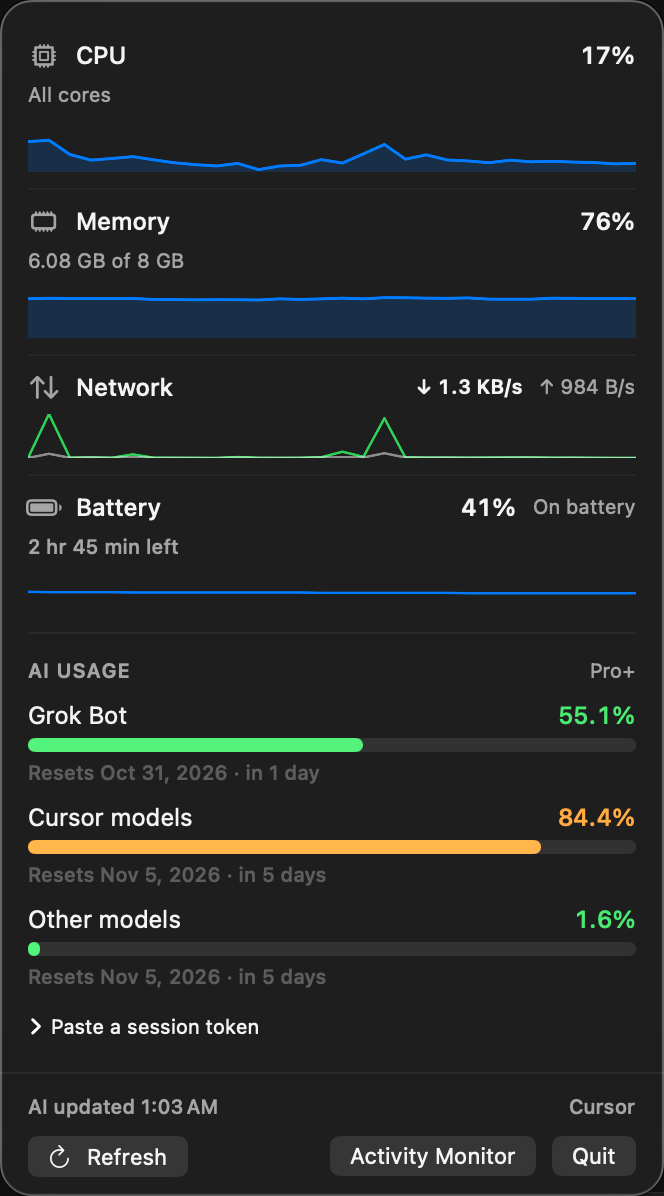
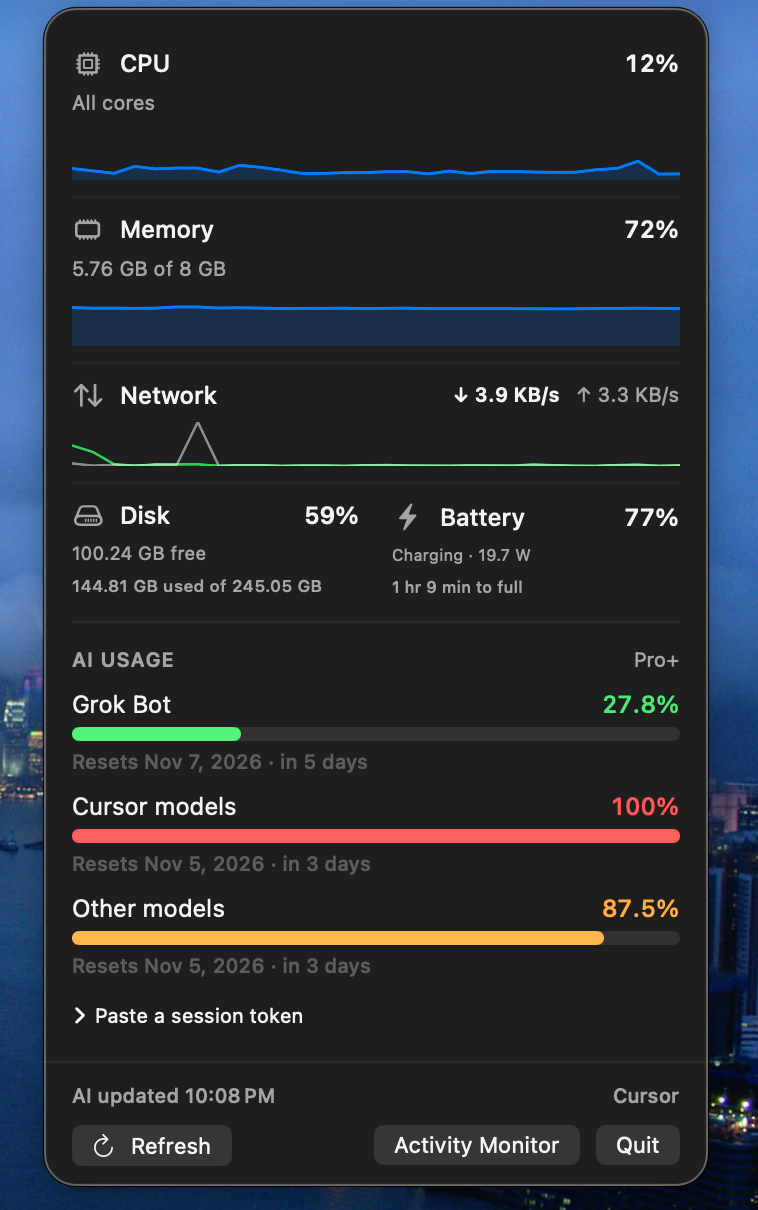
Skip unused battery registry reads and hold charge watts to the 30s cadence (#16)
* Skip unused battery registry reads and hold watts to the 30s cadence.

When the chosen charging source already has a positive IOPS voltage and a finite current, skip AppleSmartBattery. Inside the sample window, keep the last watts unless percent, source, or minutes change. Replace the panel screenshot with the approved popover.

* Name battery in the panel caption and parse the chosen source once.

The screenshot line keeps disk free and used of total and charging watts, and lists battery again. The sampler resolves one source, gates the registry on it, and parses that source.

---------

Changed region(s): [[0.0, 0.0, 1.0, 1.0]]

diff --git a/MenuBarUsageTests/UsageTests.swift b/MenuBarUsageTests/UsageTests.swift
@@ -951,6 +951,172 @@ final class MachineTelemetryTests: XCTestCase {
         return description
     }
 
+    func testIOPSChargeInputsArePositiveVoltageAndFiniteCurrent() {
+        XCTAssertTrue(BatteryStatusParser.iopsCanSupplyChargeInputs(
+            charging(current: 4_000, extra: ["Voltage": 11_000])
+        ))
+        XCTAssertTrue(BatteryStatusParser.iopsCanSupplyChargeInputs(
+            charging(current: 0, extra: ["Voltage": 11_000])
+        ))
+        XCTAssertTrue(BatteryStatusParser.iopsCanSupplyChargeInputs(
+            charging(current: -50, extra: ["Voltage": 11_000])
+        ))
+        XCTAssertFalse(BatteryStatusParser.iopsCanSupplyChargeInputs(charging(current: 4_000)))
+        XCTAssertFalse(BatteryStatusParser.iopsCanSupplyChargeInputs(
+            charging(current: 4_000, extra: ["Voltage": 0])
+        ))
+        XCTAssertFalse(BatteryStatusParser.iopsCanSupplyChargeInputs(
+            charging(current: 4_000, extra: ["Voltage": -1])
+        ))
+        XCTAssertFalse(BatteryStatusParser.iopsCanSupplyChargeInputs(
+            charging(extra: ["Voltage": 11_000])
+        ))
+        XCTAssertFalse(BatteryStatusParser.iopsCanSupplyChargeInputs(
+            charging(current: Double.nan, extra: ["Voltage": 11_000])
+        ))
+        XCTAssertFalse(BatteryStatusParser.iopsCanSupplyChargeInputs(
+            charging(current: Double.infinity, extra: ["Voltage": 11_000])
+        ))
+    }
+
+    func testCompleteIOPSChargeInputsIgnoreRegistry() {
+        let cases: [[String: Any]] = [
+            charging(current: 4_000, extra: ["Voltage": 11_000]),
+            charging(current: 0, extra: ["Voltage": 12_000]),
+            charging(current: -5_338, extra: ["Voltage": 12_000])
+        ]
+        let registry = ChargePowerReading(
+            voltageMillivolts: 5_000,
+            currentMilliamps: 9_000,
+            adapterWatts: 96
+        )
+        for description in cases {
+            XCTAssertTrue(BatteryStatusParser.iopsCanSupplyChargeInputs(description))
+            XCTAssertEqual(
+                BatteryStatusParser.parse(description, power: registry),
+                BatteryStatusParser.parse(description, power: .empty)
+            )
+        }
+    }
+
+    func testSamplerSkipsRegistryWhenIOPSCanSupplyChargeInputs() {
+        var reads = 0
+        let status = BatterySampler.status(from: [
+            charging(current: 4_000, extra: ["Voltage": 11_000])
+        ], registry: {
+            reads += 1
+            return ChargePowerReading(voltageMillivolts: 5_000, currentMilliamps: 9_000, adapterWatts: 96)
+        })
+        XCTAssertEqual(reads, 0)
+        XCTAssertEqual(status?.chargeWatts, 44)
+        XCTAssertEqual(status?.sourceCaption, "Charging · 44 W")
+    }
+
+    func testSamplerSkipsRegistryWhenCurrentIsNotPositive() {
+        var reads = 0
+        let status = BatterySampler.status(from: [
+            charging(current: 0, extra: ["Voltage": 12_000])
+        ], registry: {
+            reads += 1
+            return ChargePowerReading(voltageMillivolts: 12_000, currentMilliamps: 4_000, adapterWatts: 96)
+        })
+        XCTAssertEqual(reads, 0)
+        XCTAssertNil(status?.chargeWatts)
+        XCTAssertEqual(status?.sourceCaption, "Charging")
+
+        let negative = BatterySampler.status(from: [
+            charging(current: -5_338, extra: ["Voltage": 12_000])
+        ], registry: {
+            reads += 1
+            return ChargePowerReading(adapterWatts: 96)
+        })
+        XCTAssertEqual(reads, 0)
+        XCTAssertNil(negative?.chargeWatts)
+    }
+
+    func testSamplerReadsRegistryWhenIOPSCannotFormChargeInputs() {
+        var missingVoltageReads = 0
+        let fromRegistryVoltage = BatterySampler.status(from: [
+            charging(current: 2_000)
+        ], registry: {
+            missingVoltageReads += 1
+            return ChargePowerReading(voltageMillivolts: 12_600, adapterWatts: 45)
+        })
+        XCTAssertEqual(missingVoltageReads, 1)
+        XCTAssertEqual(fromRegistryVoltage?.sourceCaption, "Charging · 25.2 W")
+
+        var zeroVoltageReads = 0
+        let zeroVoltage = BatterySampler.status(from: [
+            charging(current: 2_000, extra: ["Voltage": 0])
+        ], registry: {
+            zeroVoltageReads += 1
+            return ChargePowerReading(voltageMillivolts: 11_000, adapterWatts: 96)
+        })
+        XCTAssertEqual(zeroVoltageReads, 1)
+        XCTAssertEqual(zeroVoltage?.chargeWatts, 22)
+
+        var missingCurrentReads = 0
+        let adapterOnly = BatterySampler.status(from: [
+            charging(extra: ["Voltage": 12_000])
+        ], registry: {
+            missingCurrentReads += 1
+            return ChargePowerReading(adapterWatts: 45)
+        })
+        XCTAssertEqual(missingCurrentReads, 1)
+        XCTAssertEqual(adapterOnly?.chargeWatts, 45)
+
+        var nonFiniteReads = 0
+        let nonFiniteCurrent = BatterySampler.status(from: [
+            charging(current: Double.nan, extra: ["Voltage": 12_000])
+        ], registry: {
+            nonFiniteReads += 1
+            return ChargePowerReading(voltageMillivolts: 1, currentMilliamps: 2_000, adapterWatts: 96)
+        })
+        XCTAssertEqual(nonFiniteReads, 1)
+        XCTAssertEqual(nonFiniteCurrent?.chargeWatts, 24)
+    }
+
+    func testSamplerSkipsRegistryUnlessTheChosenSourceNeedsIt() {
+        var reads = 0
+        let registry = {
+            reads += 1
+            return ChargePowerReading(voltageMillivolts: 12_000, currentMilliamps: 5_338, adapterWatts: 96)
+        }
+        let incompleteUSB: [String: Any] = [
+            "Current Capacity": 10,
+            "Max Capacity": 100,
+            "Is Charging": true,
+            "Transport Type": "USB"
+        ]
+        let completeInternal = BatterySampler.status(from: [
+            incompleteUSB,
+            charging(current: -100, extra: ["Voltage": 12_000])
+        ], registry: registry)
+        XCTAssertEqual(reads, 0)
+        XCTAssertEqual(completeInternal?.percent ?? -1, 56, accuracy: 0.001)
+        XCTAssertNil(completeInternal?.chargeWatts)
+
+        let idleInternal: [String: Any] = [
+            "Current Capacity": 100,
+            "Max Capacity": 100,
+            "Is Charging": false,
+            "Power Source State": "AC Power",
+            "Transport Type": "Internal"
+        ]
+        let notCharging = BatterySampler.status(from: [incompleteUSB, idleInternal], registry: registry)
+        XCTAssertEqual(reads, 0)
+        XCTAssertEqual(notCharging?.source, .powerAdapter)
+        XCTAssertNil(notCharging?.chargeWatts)
+
+        let incompleteInternal = BatterySampler.status(from: [
+            charging(current: 2_000, extra: ["Voltage": 5_000, "Transport Type": "USB"]),
+            charging()
+        ], registry: registry)
+        XCTAssertEqual(reads, 1)
+        XCTAssertEqual(incompleteInternal?.percent ?? -1, 56, accuracy: 0.001)
+        XCTAssertEqual(incompleteInternal?.sourceCaption, "Charging · 64.1 W")
+    }
+
     func testHistoryKeepsTheNewestSamples() {
         var history: [Double] = []
         for value in 0..<5 {
@@ -1030,5 +1196,74 @@ final class HostSampleHistoryTests: XCTestCase {
 
         model.noteDiskReading(disk)
         XCTAssertEqual(model.content.disk, disk)
+    }
+
+    func testChargeWattsWaitForTheCadenceInsideTheSampleWindow() {
+        let model = AppModel()
+        model.panelDidOpen()
+        let start = Date(timeIntervalSince1970: 10_000)
+        let held = BatteryStatus(percent: 77, source: .charging, minutesRemaining: 69, chargeWatts: 19.7)
+        let twitched = BatteryStatus(percent: 77, source: .charging, minutesRemaining: 69, chargeWatts: 45)
+        XCTAssertNotEqual(held, twitched)
+        XCTAssertTrue(held.hasSameChargeIdentity(as: twitched))
+
+        var reads = 0
+        model.recordBattery(force: true, now: start, read: {
+            reads += 1
+            return held
+        })
+        XCTAssertEqual(reads, 1)
+        XCTAssertEqual(model.content.battery, held)
+
+        model.recordBattery(force: true, now: start.addingTimeInterval(10), read: {
+            reads += 1
+            return twitched
+        })
+        XCTAssertEqual(reads, 2)
+        XCTAssertEqual(model.content.battery, held)
+
+        model.recordBattery(force: false, now: start.addingTimeInterval(20), read: {
+            reads += 1
+            return twitched
+        })
+        XCTAssertEqual(reads, 2)
+        XCTAssertEqual(model.content.battery?.chargeWatts, 19.7)
+
+        model.recordBattery(force: false, now: start.addingTimeInterval(30), read: {
+            reads += 1
+            return twitched
+        })
+        XCTAssertEqual(reads, 3)
+        XCTAssertEqual(model.content.battery, twitched)
+    }
+
+    func testPowerNotificationStillAppliesPercentSourceAndMinutes() {
+        let model = AppModel()
+        model.panelDidOpen()
+        let start = Date(timeIntervalSince1970: 20_000)
+        let charging = BatteryStatus(percent: 77, source: .charging, minutesRemaining: 69, chargeWatts: 19.7)
+        model.recordBattery(force: true, now: start, read: { charging })
+
+        let sooner = BatteryStatus(percent: 77, source: .charging, minutesRemaining: 40, chargeWatts: 30)
+        model.recordBattery(force: true, now: start.addingTimeInterval(5), read: { sooner })
+        XCTAssertEqual(model.content.battery, sooner)
+
+        let fuller = BatteryStatus(percent: 80, source: .charging, minutesRemaining: 40, chargeWatts: 12)
+        model.recordBattery(force: true, now: start.addingTimeInterval(10), read: { fuller })
+        XCTAssertEqual(model.content.battery, fuller)
+
+        let unplugged = BatteryStatus(percent: 80, source: .battery, minutesRemaining: 100, chargeWatts: nil)
+        model.recordBattery(force: true, now: start.addingTimeInterval(12), read: { unplugged })
+        XCTAssertEqual(model.content.battery, unplugged)
+
+        // The unplug moved the cadence clock, so a quiet tick before 30s does not apply.
+        let later = BatteryStatus(percent: 79, source: .battery, minutesRemaining: 90, chargeWatts: nil)
+        model.recordBattery(force: false, now: start.addingTimeInterval(30), read: { later })
+        XCTAssertEqual(model.content.battery, unplugged)
+        model.recordBattery(force: false, now: start.addingTimeInterval(12 + 30), read: { later })
+        XCTAssertEqual(model.content.battery, later)
+
+        model.recordBattery(force: true, now: start.addingTimeInterval(50), read: { nil })
+        XCTAssertNil(model.content.battery)
     }
 }

diff --git a/MenuBarUsage/MachineTelemetry.swift b/MenuBarUsage/MachineTelemetry.swift
@@ -80,6 +80,13 @@ struct BatteryStatus: Equatable {
     /// Instantaneous charge power in watts, only while charging and only when a reading exists.
     var chargeWatts: Double? = nil
 
+    /// Percent, source, and minutes. Charge watts stay on the sample cadence.
+    func hasSameChargeIdentity(as other: BatteryStatus) -> Bool {
+        percent == other.percent
+            && source == other.source
+            && minutesRemaining == other.minutesRemaining
+    }
+
     /// First caption under the percent: source, with watts while charging when known.
     var sourceCaption: String {
         guard source == .charging, let chargeWatts, let watts = ChargeWatts.text(chargeWatts) else {
@@ -141,12 +148,20 @@ struct ChargePowerReading: Equatable {
 
 enum BatteryStatusParser {
     static func choose(_ descriptions: [[String: Any]], power: ChargePowerReading = .empty) -> BatteryStatus? {
-        let parsed: [(BatteryStatus, Bool)] = descriptions.compactMap { description in
-            guard let status = parse(description, power: power) else { return nil }
-            let transport = description[kIOPSTransportTypeKey as String] as? String
-            return (status, transport == (kIOPSInternalType as String))
+        guard let description = chosenDescription(descriptions) else { return nil }
+        return parse(description, power: power)
+    }
+
+    /// Internal battery when one reports capacity; otherwise the first that does.
+    /// `BatterySampler` and `choose` share this so the registry gate matches the result.
+    fileprivate static func chosenDescription(_ descriptions: [[String: Any]]) -> [String: Any]? {
+        let reported = descriptions.filter { parse($0) != nil }
+        let transport = kIOPSTransportTypeKey as String
+        let internalType = kIOPSInternalType as String
+        if let match = reported.first(where: { ($0[transport] as? String) == internalType }) {
+            return match
         }
-        return parsed.first(where: \.1)?.0 ?? parsed.first?.0
+        return reported.first
     }
 
     static func parse(_ description: [String: Any], power: ChargePowerReading = .empty) -> BatteryStatus? {
@@ -183,6 +198,14 @@ enum BatteryStatusParser {
             currentMilliamps: sample(registryProperties["InstantAmperage"]),
             adapterWatts: adapterWatts(registryProperties["AdapterDetails"])
         )
+    }
+
+    /// Positive IOPS `Voltage` and a finite IOPS `Current`, including 0 and negative.
+    /// `chargeWatts` then ignores the registry. `BatterySampler` uses this, and only
+    /// this, to decide whether to call `SmartBatteryPower.read()`.
+    static func iopsCanSupplyChargeInputs(_ description: [String: Any]) -> Bool {
+        positive(description[kIOPSVoltageKey as String]) != nil
+            && sample(description[kIOPSCurrentKey as String]) != nil
     }
 
     /// Instantaneous charge power is voltage (mV) × current (mA) / 1_000_000
@@ -370,7 +393,8 @@ enum DiskSampler {
     }
 }
 
-/// AppleSmartBattery keys for charge watts, read while any source is charging.
+/// AppleSmartBattery keys for charge watts. Read only when the chosen source is
+/// charging and IOPS cannot supply voltage and current.
 /// `Voltage` is mV. `InstantAmperage` is mA. `AdapterDetails` is the negotiated adapter.
 enum SmartBatteryPower {
     private static let keys = [
@@ -433,19 +457,36 @@ enum BatterySampler {
     }
 
     static func read() -> BatteryStatus? {
+        guard let descriptions = powerSourceDescriptions() else { return nil }
+        return status(from: descriptions)
+    }
+
+    /// Resolves one battery. The registry closure runs only when that source is
+    /// charging and `iopsCanSupplyChargeInputs` is false.
+    static func status(
+        from descriptions: [[String: Any]],
+        registry: () -> ChargePowerReading = { SmartBatteryPower.read() }
+    ) -> BatteryStatus? {
+        guard let chosen = BatteryStatusParser.chosenDescription(descriptions) else { return nil }
+        let power: ChargePowerReading
+        if BatteryStatusParser.boolValue(chosen[kIOPSIsChargingKey as String]) == true,
+           !BatteryStatusParser.iopsCanSupplyChargeInputs(chosen) {
+            power = registry()
+        } else {
+            power = .empty
+        }
+        return BatteryStatusParser.parse(chosen, power: power)
+    }
+
+    private static func powerSourceDescriptions() -> [[String: Any]]? {
         guard let blob = IOPSCopyPowerSourcesInfo()?.takeRetainedValue() else { return nil }
         guard let list = IOPSCopyPowerSourcesList(blob)?.takeRetainedValue() as? [Any] else { return nil }
-        let descriptions: [[String: Any]] = list.compactMap { source in
+        return list.compactMap { source in
             guard let description = IOPSGetPowerSourceDescription(blob, source as CFTypeRef)?.takeUnretainedValue() else {
                 return nil
             }
             return description as? [String: Any]
         }
-        let charging = descriptions.contains {
-            BatteryStatusParser.boolValue($0[kIOPSIsChargingKey as String]) == true
-        }
-        let power = charging ? SmartBatteryPower.read() : .empty
-        return BatteryStatusParser.choose(descriptions, power: power)
     }
 }
 

diff --git a/MenuBarUsage/AppModel.swift b/MenuBarUsage/AppModel.swift
@@ -557,11 +557,17 @@ final class AppModel: ObservableObject {
         mirrorMachineMetrics()
     }
 
-    private func recordBattery(force: Bool) {
-        let now = Date()
+    /// Power-source notifications (`force`) re-read immediately so percent, source,
+    /// and minutes stay current. Inside the 30s window a watts-only change keeps
+    /// the last good rate until the next cadence sample.
+    func recordBattery(
+        force: Bool,
+        now: Date = Date(),
+        read: () -> BatteryStatus? = { BatterySampler.read() }
+    ) {
         let due = now.timeIntervalSince(lastBatterySample) >= UsageSchedule.batteryInterval
         if !force, !due { return }
-        guard let reading = BatterySampler.read() else {
+        guard let reading = read() else {
             let hadBattery = batteryValue != nil
             guard hadBattery else {
                 if due { lastBatterySample = now }
@@ -572,8 +578,9 @@ final class AppModel: ObservableObject {
             mirrorMachineMetrics()
             return
         }
-        // A power-source notification with the same charge waits for the normal cadence.
-        if batteryValue == reading, !due { return }
+        if !due, let current = batteryValue, current.hasSameChargeIdentity(as: reading) {
+            return
+        }
         lastBatterySample = now
         batteryValue = reading
         mirrorMachineMetrics()

diff --git a/README.md b/README.md
@@ -9,7 +9,7 @@ Requires macOS 13 or later. The status item is a SwiftUI `MenuBarExtra` with the
 
 ![Usage panel](docs/screenshots/panel.png)
 
-CPU, memory, network, battery, and AI usage in the menu bar panel.
+CPU, memory, network, disk free and used of total, battery with charging watts, and AI usage in the menu bar panel.
 
 ![Status item](docs/screenshots/status-item.png)
 
